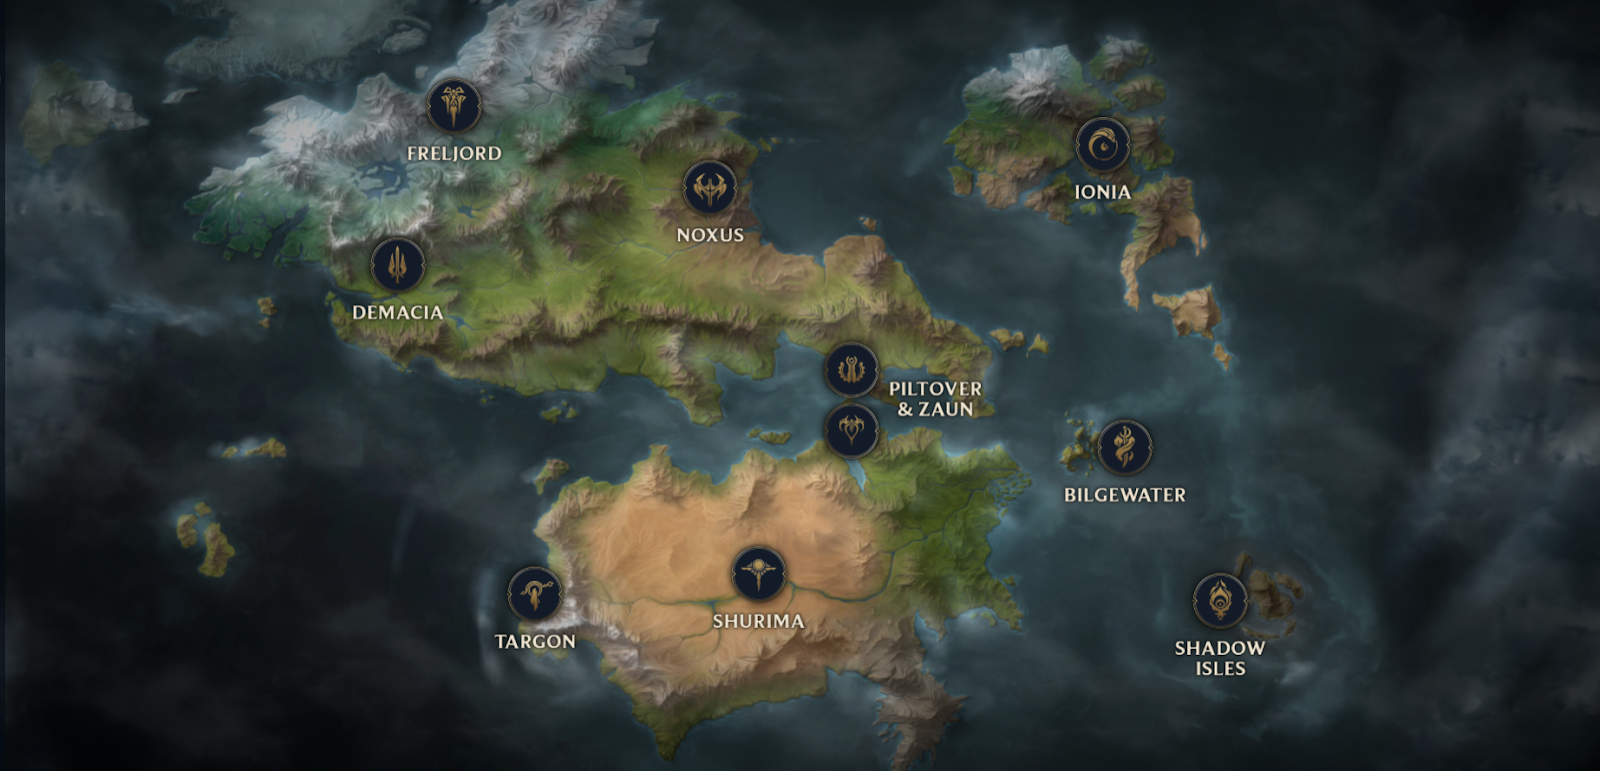
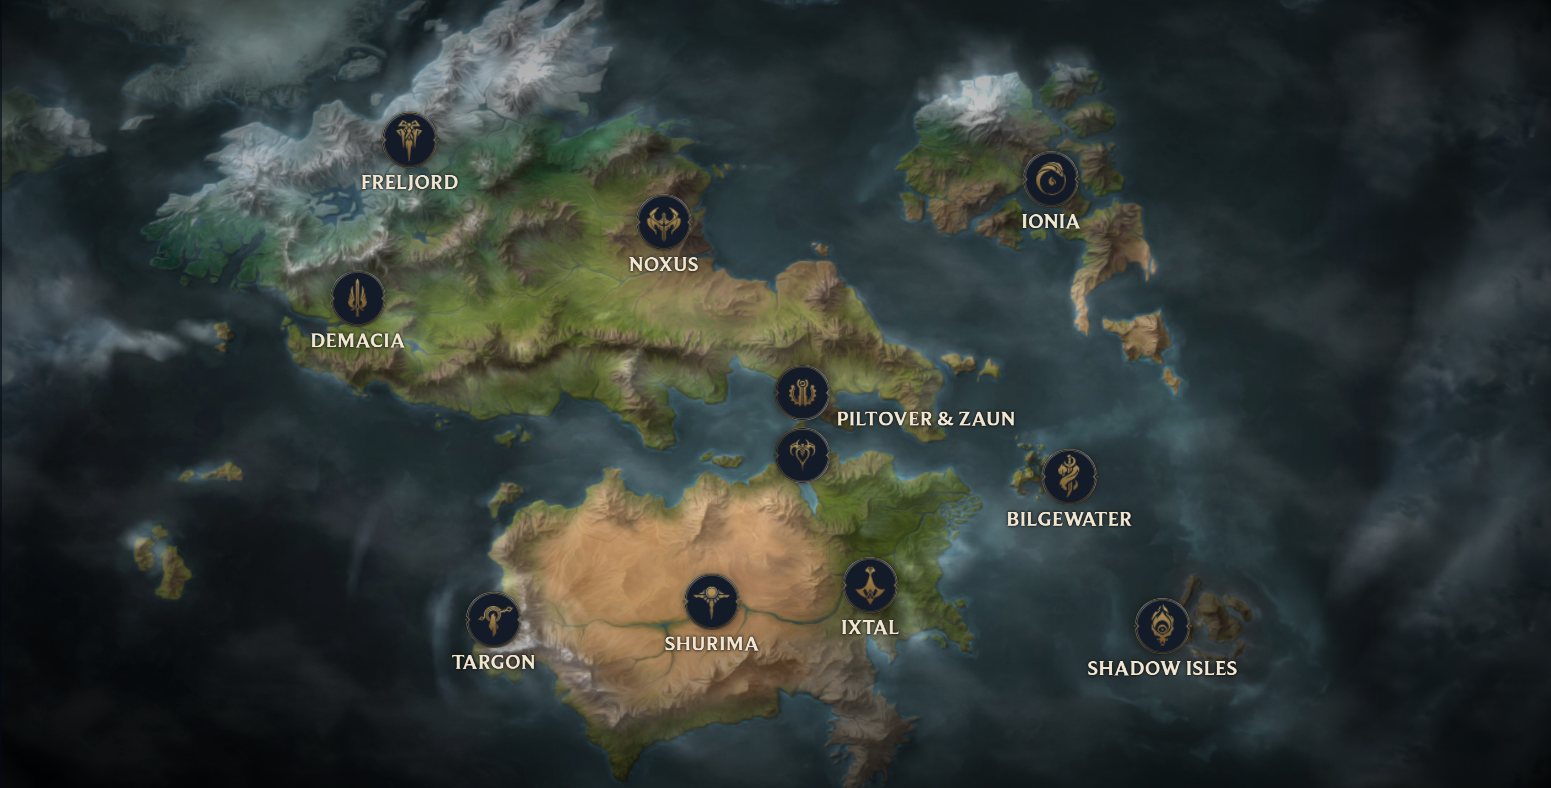
buttons + Info  ok

diff --git a/Front/src/Views/Maps.js b/Front/src/Views/Maps.js
@@ -18,6 +18,22 @@ import Shur3 from "../lol/Cities/Shurima/12.jpg";
 import Sha1 from "../lol/Cities/Shadow/13.jpg";
 import Sha2 from "../lol/Cities/Shadow/14.jpg";
 import Sha3 from "../lol/Cities/Shadow/15.jpg";
+import Io1 from "../lol/Cities/Ionia/16.jpg";
+import Io2 from "../lol/Cities/Ionia/17.jpg";
+import Io3 from "../lol/Cities/Ionia/18.jpg";
+import Pil1 from "../lol/Cities/Piltover/1.jpg";
+import Pil2 from "../lol/Cities/Piltover/2.jpg";
+import Pil3 from "../lol/Cities/Piltover/3.jpg";
+import Za1 from "../lol/Cities/Zaun/4.jpg";
+import Za2 from "../lol/Cities/Zaun/5.jpg";
+import Za3 from "../lol/Cities/Zaun/6.jpg";
+import Bil1 from "../lol/Cities/Bilgewater/7.jpg";
+import Bil2 from "../lol/Cities/Bilgewater/8.jpg";
+import Bil3 from "../lol/Cities/Bilgewater/9.jpg";
+import Ix1 from "../lol/Cities/Ixtal/10.jpg";
+import Ix2 from "../lol/Cities/Ixtal/11.jpg";
+import Ix3 from "../lol/Cities/Ixtal/13.jpg";
+
 
 function Maps() {
   const [informacion, setInformacion] = useState(""); // Estado para almacenar la información
@@ -66,7 +82,6 @@ function ocultarDivYBotones() {
       subtitulo: "SPRAWLING WESTERN MOUNTAINS",
       carr:"carrousel de frejord",
     },
-
     Noxus: {
         texto: "Noxus is a powerful empire with a fearsome reputation. To those beyond its borders, it is brutal, expansionist, and threatening, yet those who look past its warlike exterior see an unusually inclusive society, where the strengths and talents of its people are respected and cultivated. The Noxii were once fierce barbarian tribes, until they stormed the ancient city that now lies at the heart of their domain. Under threat from all sides, they aggressively took the fight to their enemies, pushing their borders outward with each passing year. This struggle for survival has made modern Noxians a deeply proud people who value strength above all—though that strength can manifest in many different forms. Anyone can rise to a position of power and respect within Noxus if they display the necessary aptitude, regardless of social standing, background, homeland, or wealth. Those who are able to wield magic are held in particularly high esteem, and are actively sought out in order that their special talents may be honed and best harnessed for the benefit of the empire. But in spite of this meritocratic ideal, the old noble houses still wield considerable power… and some fear that the greatest threat to Noxus comes not from its enemies, but from within.",
         imagenes: [ Nox1, Nox2, Nox3],      
@@ -89,29 +104,41 @@ function ocultarDivYBotones() {
         carr:"carrousel de Shadow",
       },
     Ionia:{
-        texto: "Información de Targon...",
-        imagenes: ["imagen5.jpg"],
-        titulo: "Título de Frejord",
-        subtitulo: "Subtítulo de Frejord",
+        texto: "Surrounded by treacherous seas, Ionia is composed of a number of allied provinces scattered across a massive archipelago, known to many as the First Lands. Since Ionian culture has long been shaped by the pursuit of balance in all things, the border between the material and spirit realms tends to be more permeable here, especially in the wild forests and mountains. Although these lands’ enchantments can be fickle, its creatures dangerous and fae, for many centuries most Ionians led lives of plenty. The warrior monasteries, provincial militias—and even Ionia itself—had been enough to protect them. But that ended twelve years ago, when Noxus attacked the First Lands. The empire’s seemingly endless warhosts savaged Ionia, and were only defeated after many years, and at great cost. Now, Ionia exists in an uneasy peace. Different reactions to the war have divided the region—some groups, such as the Shojin monks or the Kinkou, seek a return to isolationist pacifism, and pastoral traditions. Other more radical factions, such as the Navori Brotherhood and the Order of Shadow, demand a militarization of the land’s magic, to create a single, unified nation that can take vengeance on Noxus. The fate of Ionia hangs in a delicate balance that few are willing to overturn, but all can feel shifting uneasily beneath their feet.",
+        imagenes: [Io1, Io2,Io3],
+        titulo: "Ionia",
+        subtitulo: "THE FIRST LANDS",
+        carr:"carrousel de Ionia",
       },
     Piltover: {
-        texto: "Información de Targon...",
-        imagenes: ["imagen5.jpg"],
-        titulo: "Título de Frejord",
-        subtitulo: "Subtítulo de Frejord",
+        texto: "Piltover is a thriving, progressive city whose power and influence is on the rise. It is Valoran’s cultural center, where art, craftsmanship, trade and innovation walk hand in hand. Its power comes not through military might, but the engines of commerce and forward thinking. Situated on the cliffs above the district of Zaun and overlooking the ocean, fleets of ships pass through its titanic sea-gates, bringing goods from all over the world. The wealth this generates has given rise to an unprecedented boom in the city’s growth. Piltover has - and still is - reinventing itself as a city where fortunes can be made and dreams can be lived. Burgeoning merchant clans fund development in the most incredible endeavors: grand artistic follies, esoteric hextech research, and architectural monuments to their power. With ever more inventors delving into the emergent lore of hextech, Piltover has become a lodestone for the most skilled craftsmen the world over.",
+        imagenes: [ Pil1, Pil2, Pil3],
+        titulo: "PILTOVER",
+        subtitulo: "THRIVING COASTAL CITY",
+        carr:"carrousel de Piltover",
       },
     Zaun: {
-        texto: "Información de Targon...",
-        imagenes: ["imagen5.jpg"],
-        titulo: "Título de Frejord",
-        subtitulo: "Subtítulo de Frejord",
+        texto: "Zaun is a large, undercity district, lying in the deep canyons and valleys threading Piltover. What light reaches below is filtered through fumes leaking from the tangles of corroded pipework and reflected from the stained glass of its industrial architecture. Zaun and Piltover were once united, but are now separate, yet symbiotic societies. Though it exists in perpetual smogged twilight, Zaun thrives, its people vibrant and its culture rich. Piltover’s wealth has allowed Zaun to develop in tandem; a dark mirror of the city above. Many of the goods coming to Piltover find their way into Zaun’s black markets, and hextech inventors who find the restrictions placed upon them in the city above too restrictive often find their dangerous researches welcomed in Zaun. Unfettered development of volatile technologies and reckless industry has rendered whole swathes of Zaun polluted and dangerous. Streams of toxic runoff stagnate in the city’s lower reaches, but even here people find a way to exist and prosper.",
+        imagenes: [ Za1 , Za2, Za3],
+        titulo: "ZAUN",
+        subtitulo: "POLLUTED UNDERCITY",
+        carr:"carrousel de Zaun",
       },
     Bilgewater: {
-        texto: "Información de Targon...",
-        imagenes: ["imagen5.jpg"],
-        titulo: "Título de Frejord",
-        subtitulo: "Subtítulo de Frejord",
+        texto: "Nestled away in the Blue Flame Isles archipelago, Bilgewater is a port city like no other—home to serpent hunters, dock gangs, and smugglers from across the known world. Here, fortunes are made and ambitions shattered in the blink of an eye. For those fleeing justice, debt, or persecution, Bilgewater can be a place of new beginnings, for no one on these twisted streets cares about your past. Even so, with each new dawn, careless travelers can always be found floating in the harbor, their purses empty and their throats slit… While incredibly dangerous, Bilgewater is ripe with opportunity, free from the shackles of formal government and trade regulation. If you have the coin, almost anything can be purchased here, from outlawed hextech to the favor of local crime lords. With the recent removal of the last “reaver king” of Bilgewater, the city has entered a period of transition, while the most prominent captains try to agree on its future. But as long as there are seaworthy ships and crews to sail them, Bilgewater is likely to remain one of the most colorful and well-connected places in Runeterra.",
+        imagenes: [Bil1, Bil2, Bil3],
+        titulo: "BILGEWATER",
+        subtitulo: "LAWLESS PORT CITY",
+        carr:"carrousel de Bilgewater",
       },
+      Ixtal:{
+        texto:"Renowned for its mastery of elemental magic, Ixtal was one of the first independent nations to join the Shuriman empire. In truth, Ixtali culture is much older—part of the great westward diaspora that gave rise to civilizations including the Buhru, magnificent Helia, and the ascetics of Targon—and it is likely they played a significant role in the creation of the first Ascended. But the mages of Ixtal survived the Void, and later the Darkin, by distancing themselves from their neighbors, drawing the wilderness around them like a shield. While much had already been lost, they were committed to the preservation of what little remained… Now, secluded deep in the jungle for thousands of years, the sophisticated arcology-city of Ixaocan remains mostly free of outside influence. Having witnessed from afar the ruination of the Blessed Isles and the Rune Wars that followed, the Ixtali view all the other factions of Runeterra as upstarts and pretenders, and use their powerful magic to keep any intruders at bay.",
+        imagenes: [Ix1,Ix2, Ix3],
+        titulo: "IXTAL",
+        subtitulo:"PERILOUS EASTERN JUNGLES",
+        carr:"carrousel de Ixtal",
+      }
+     
 
   };
 
@@ -190,9 +217,44 @@ function ocultarDivYBotones() {
               )}
               className="Shadow">
                 <img src="Shadow" alt="Shadow"/>
-            Shadow Isle
+            Shadow Isles
           </button>
-
+        {/* -----------------Ionia -----------------*/}
+        <button id="Ionia" onClick={() => mostrarDivYBotones(
+                informacionBotones.Ionia.texto,
+                informacionBotones.Ionia.imagenes,
+                informacionBotones.Ionia.titulo,
+                informacionBotones.Ionia.subtitulo,
+                informacionBotones.Ionia.carr,
+              )}
+              className="Ionia">
+                <img src="Ionia" alt="Ionia"/>
+            Ionia
+          </button>
+         {/* -----------------Piltover -----------------*/}
+         <button id="Piltover" onClick={() => mostrarDivYBotones(
+                informacionBotones.Piltover.texto,
+                informacionBotones.Piltover.imagenes,
+                informacionBotones.Piltover.titulo,
+                informacionBotones.Piltover.subtitulo,
+                informacionBotones.Piltover.carr,
+              )}
+              className="Piltover">
+                <img src="Piltover" alt="Piltover"/>
+            Piltover
+          </button>
+         {/* -----------------Ixtal -----------------*/}
+         <button id="Ixtal" onClick={() => mostrarDivYBotones(
+                informacionBotones.Ixtal.texto,
+                informacionBotones.Ixtal.imagenes,
+                informacionBotones.Ixtal.titulo,
+                informacionBotones.Ixtal.subtitulo,
+                informacionBotones.Ixtal.carr,
+              )}
+              className="Ixtal">
+                <img src="Ixtal" alt="Ixtal"/>
+            Ixtal
+          </button>
 
         </div>
 

diff --git a/Front/src/Views/City.js b/Front/src/Views/City.js
@@ -1,0 +1,9 @@
+
+function City () {
+
+    return (
+        <h1>Hola soy la ciudad _____ </h1>
+    )
+}
+
+export default City;
